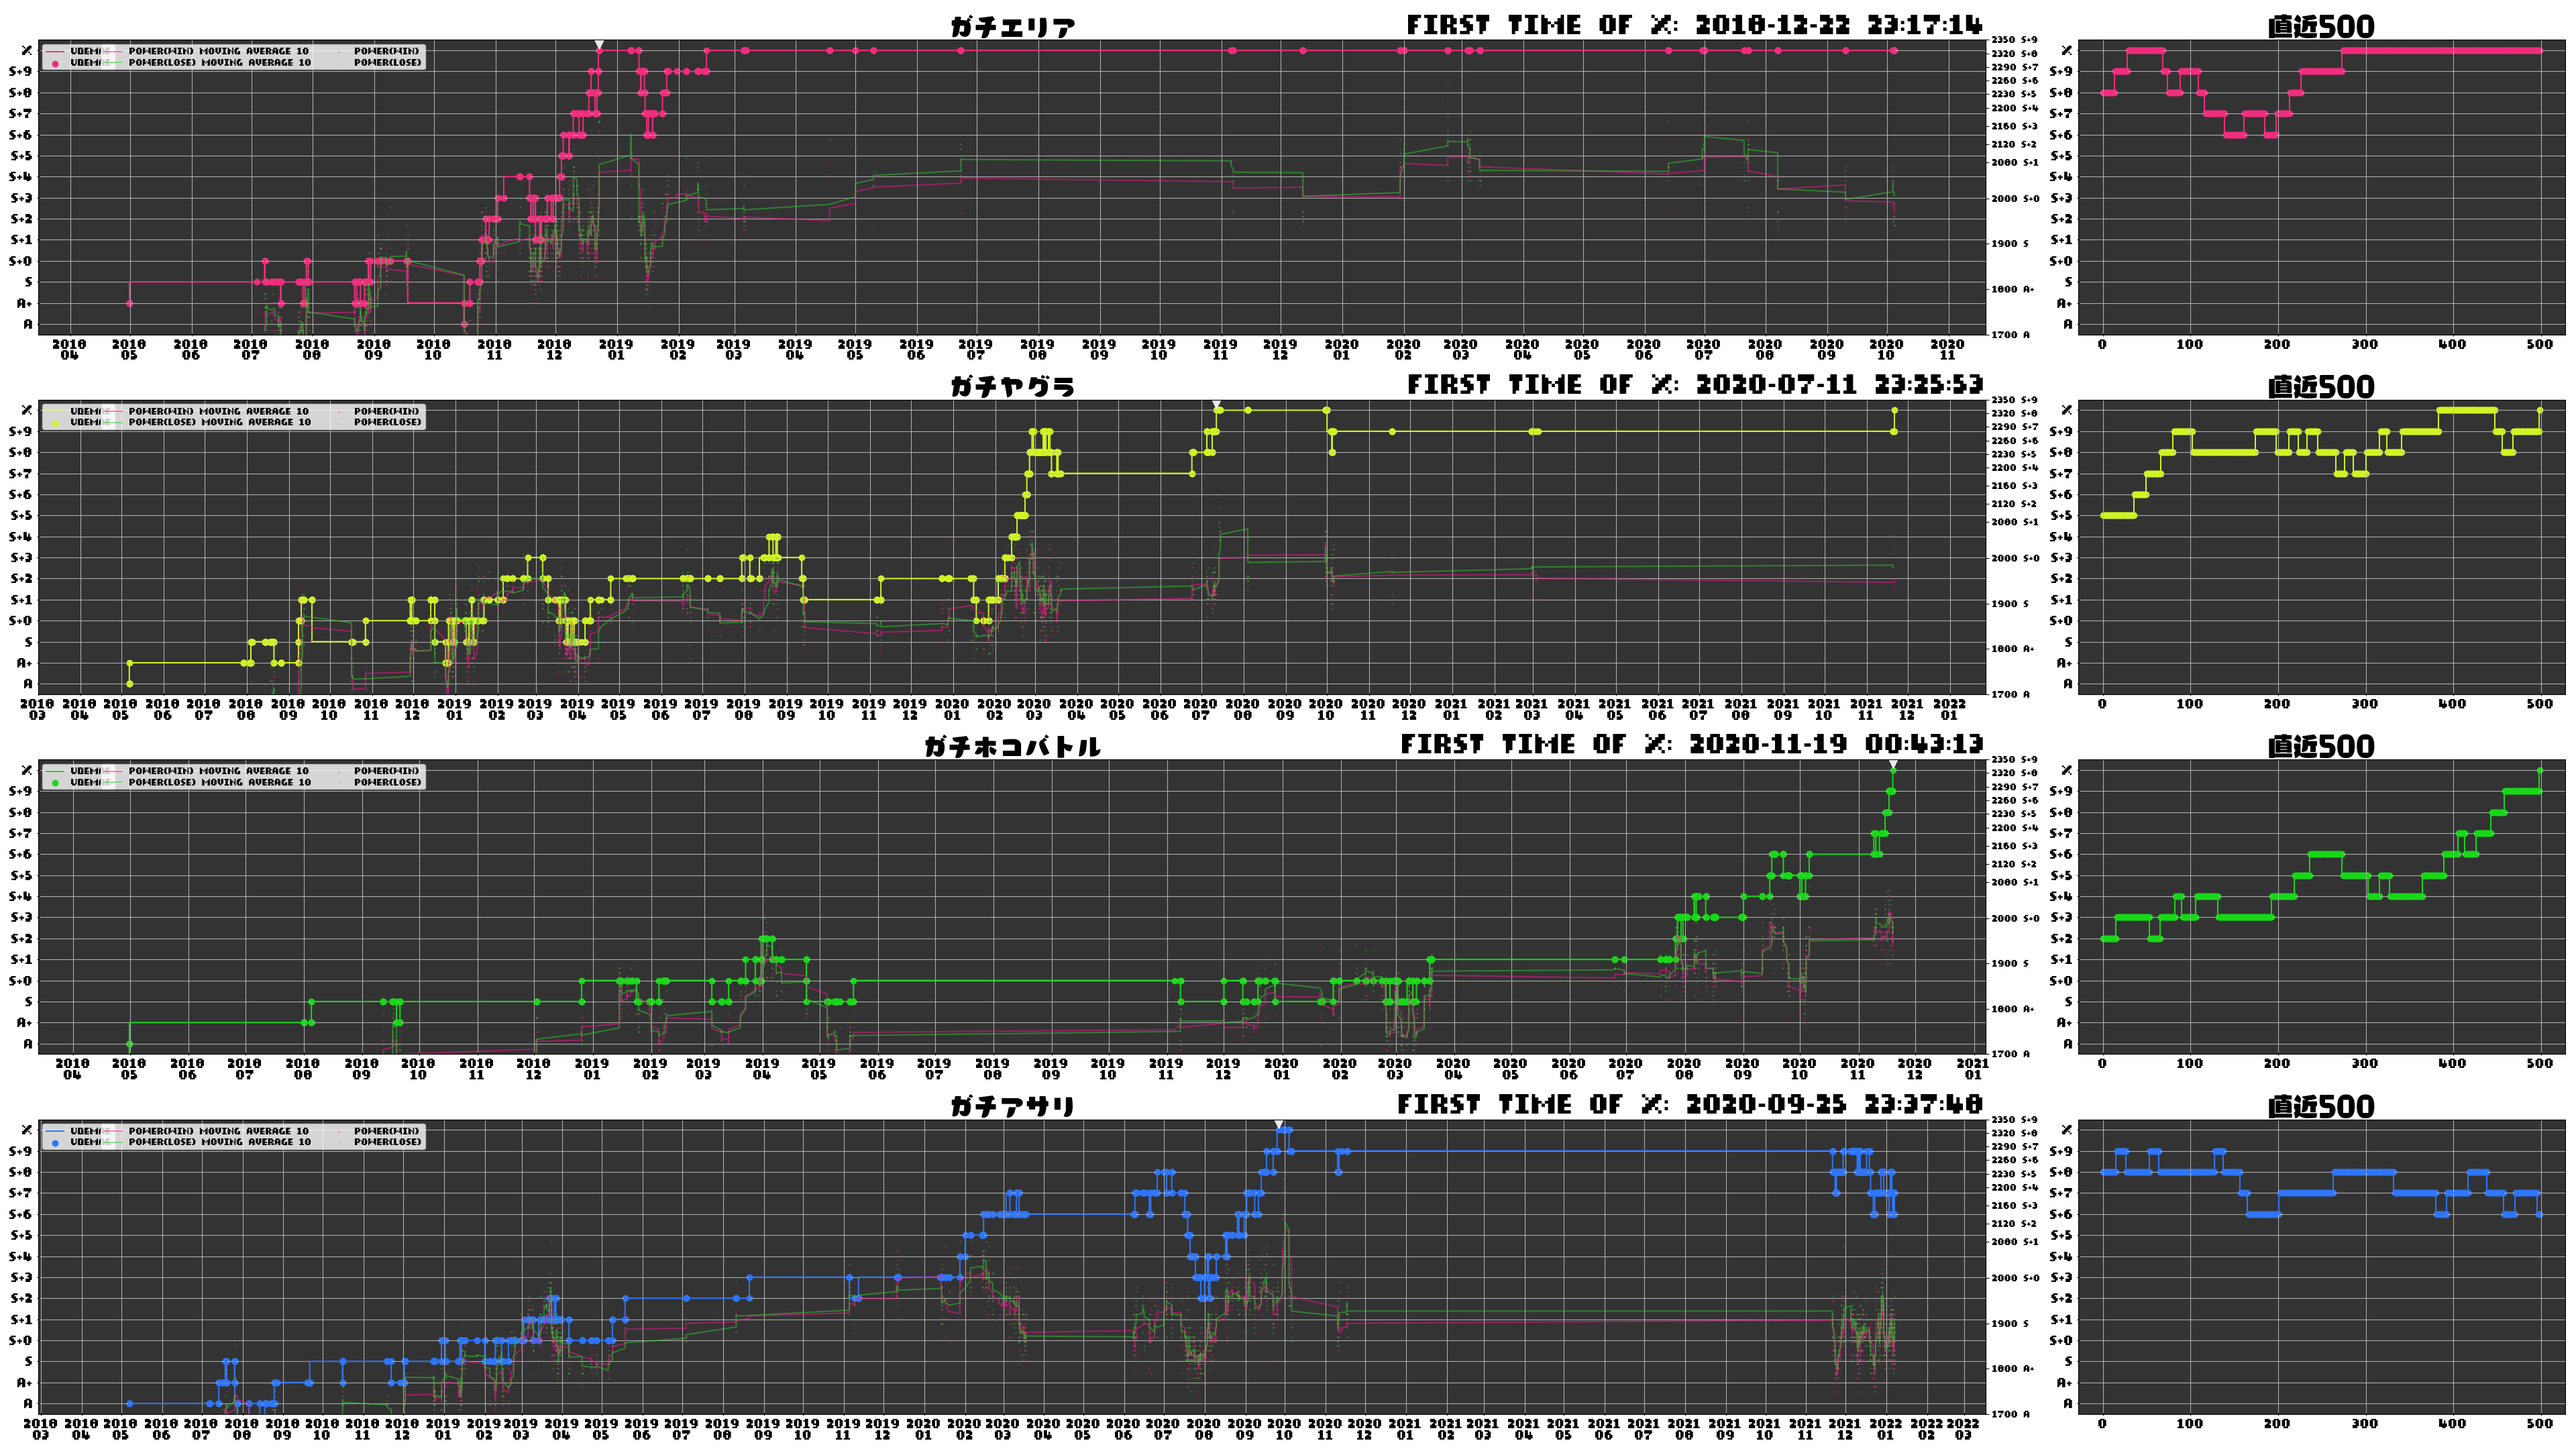
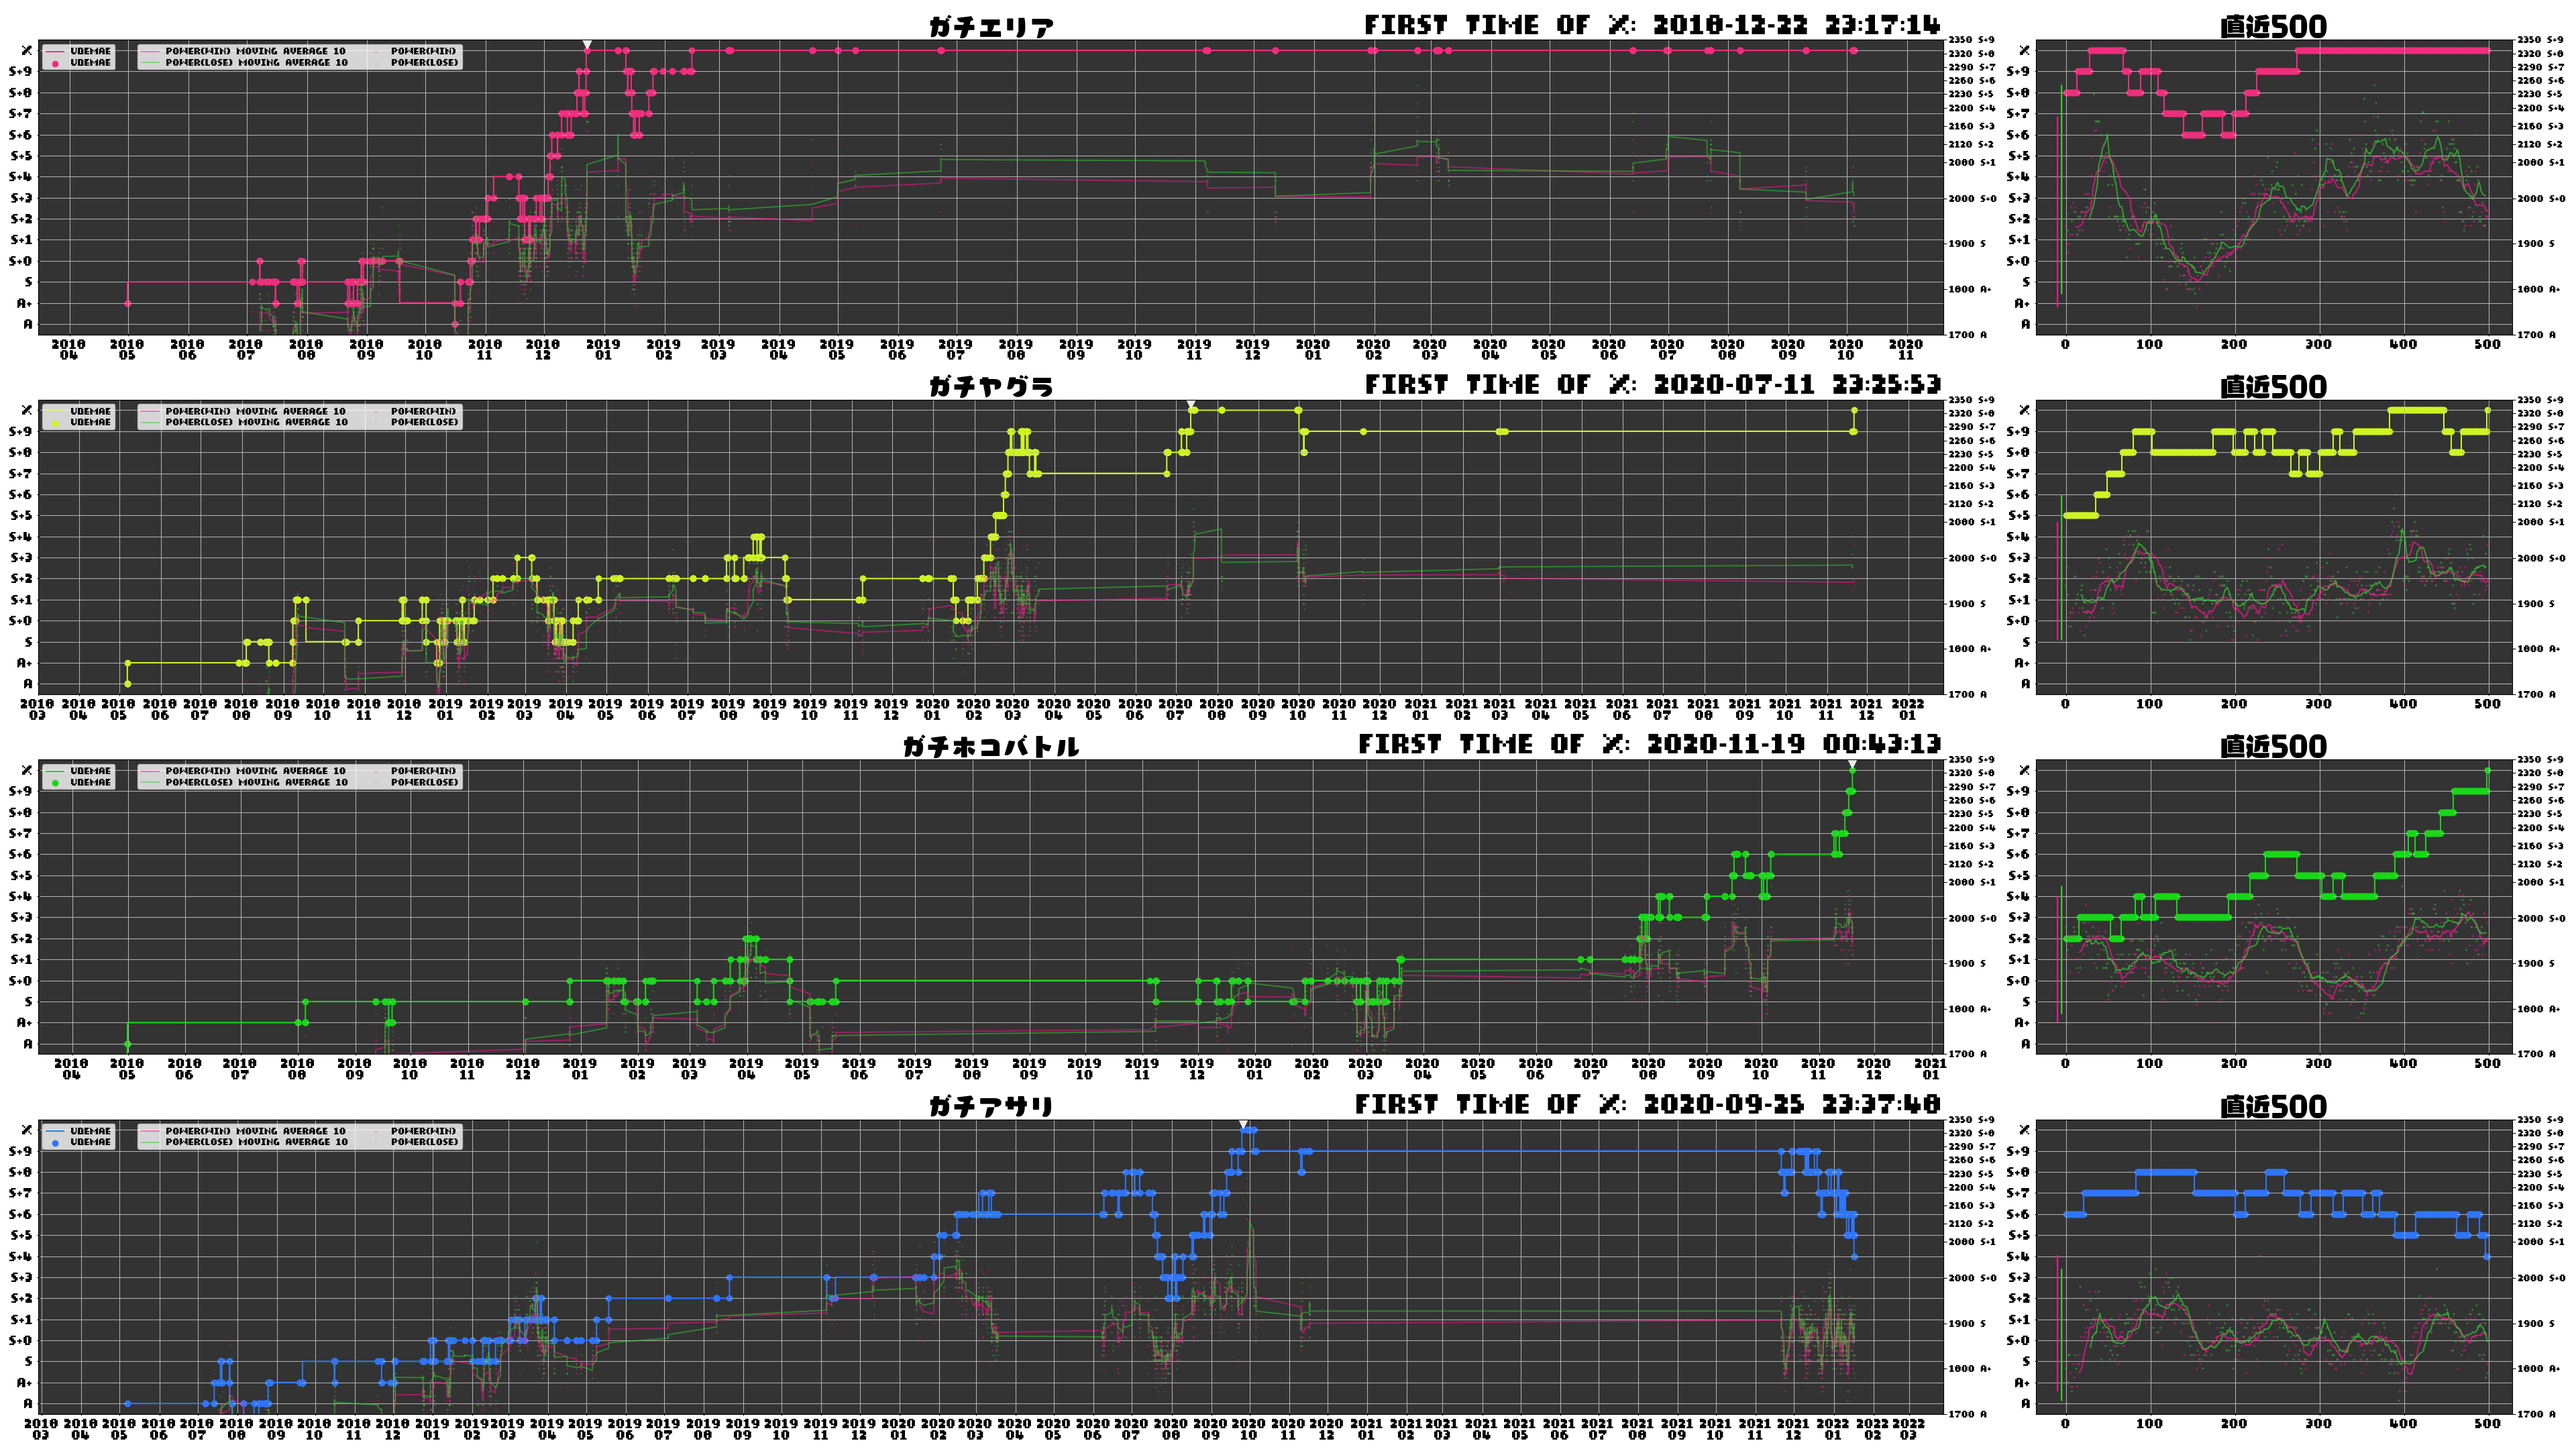
update

diff --git a/rankedbattle/index.html b/rankedbattle/index.html
@@ -50,6 +50,7 @@
    <div id="grid">
       <ul id="rankedbattle">
          <li>ガチマッチ ウデマエ推移<br><img src="rankedbattle.png" alt="ガチマッチ ウデマエ推移"></li>
+         <li>ガチマッチ ウデマエ推移(等間隔)<br><img src="rankedbattle_range.png" alt="ガチマッチ ウデマエ推移(等間隔)"></li>
          <li>ガチマッチ キルレート<br><img src="rankedbattle_kda.png" alt="ガチマッチ キルレート"></li>
          <li>ガチマッチ Xパワー<br><img src="rankedbattle_power.png" alt="ガチマッチ Xパワー"></li>
          <li>ガチマッチ 2時間毎勝率<br><img src="rankedbattle_wl.png" alt="ガチマッチ 2時間毎勝率"></li>
@@ -58,6 +59,7 @@
          <li>ガチマッチ 勝率 移動平均 32<br><img src="rankedbattle_wl_32ave.png" alt="ガチマッチ 勝率 移動平均 32"></li>
          <li>ガチマッチ 勝率 移動平均 50<br><img src="rankedbattle_wl_50ave.png" alt="ガチマッチ 勝率 移動平均 50"></li>
          <li>ガチマッチ 勝率 移動平均 100<br><img src="rankedbattle_wl_100ave.png" alt="ガチマッチ 勝率 移動平均 100"></li>
+         <li>ガチマッチ 勝率 移動平均 100(等間隔)<br><img src="rankedbattle_wl_100ave_range.png" alt="ガチマッチ 勝率 移動平均 100(等間隔)"></li>
          <li>ガチマッチ 連勝/連敗数<br><img src="rankedbattle_wl_seq.png" alt="ガチマッチ 連勝/連敗数"></li>
          <li>ガチマッチ ステージ毎勝率<br><img src="rankedbattle_wl_stage.png" alt="ガチマッチ ステージ毎勝率"></li>
          <li>ガチマッチ ステージ毎勝率 (今月のみ)<br><img src="rankedbattle_wl_stage_thismonth.png" alt="ガチマッチ ステージ毎勝率 (今月のみ)"></li>
